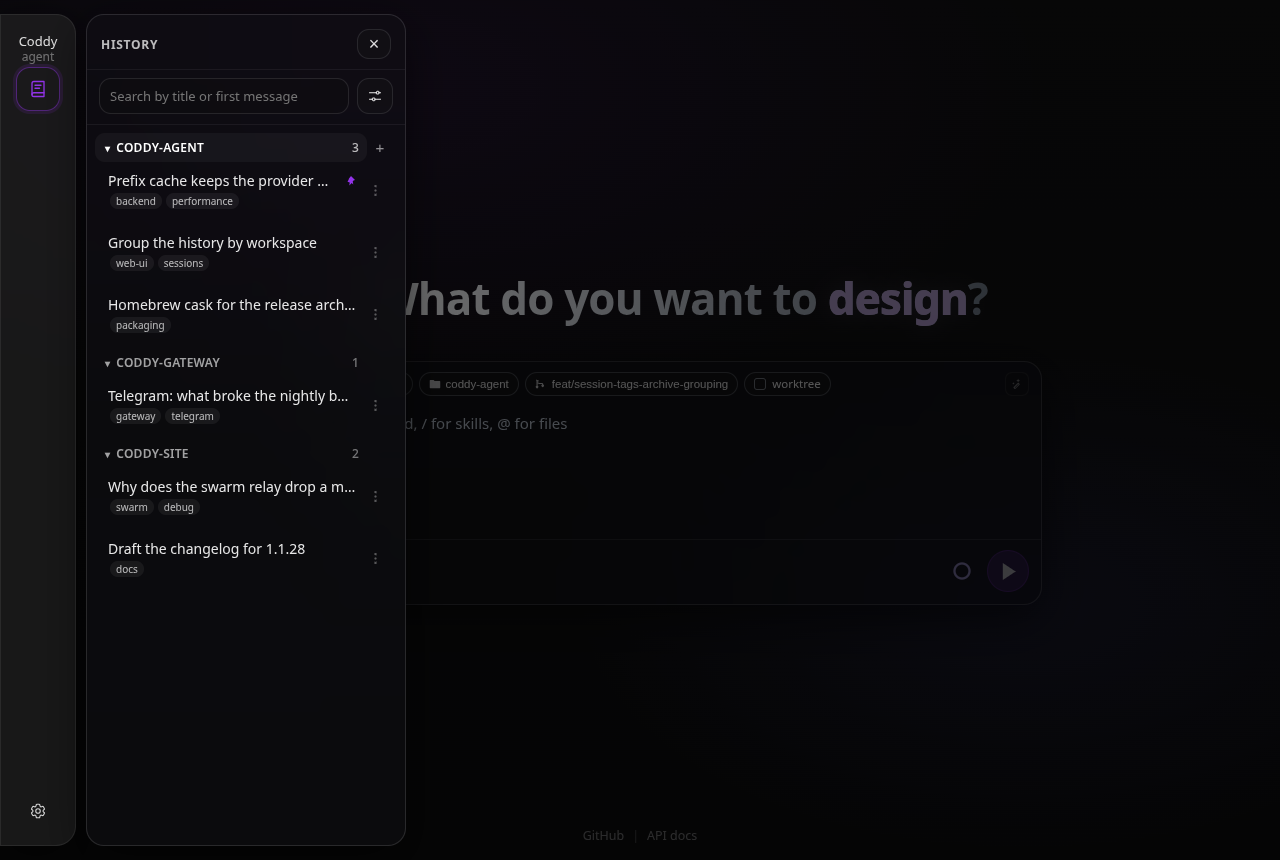
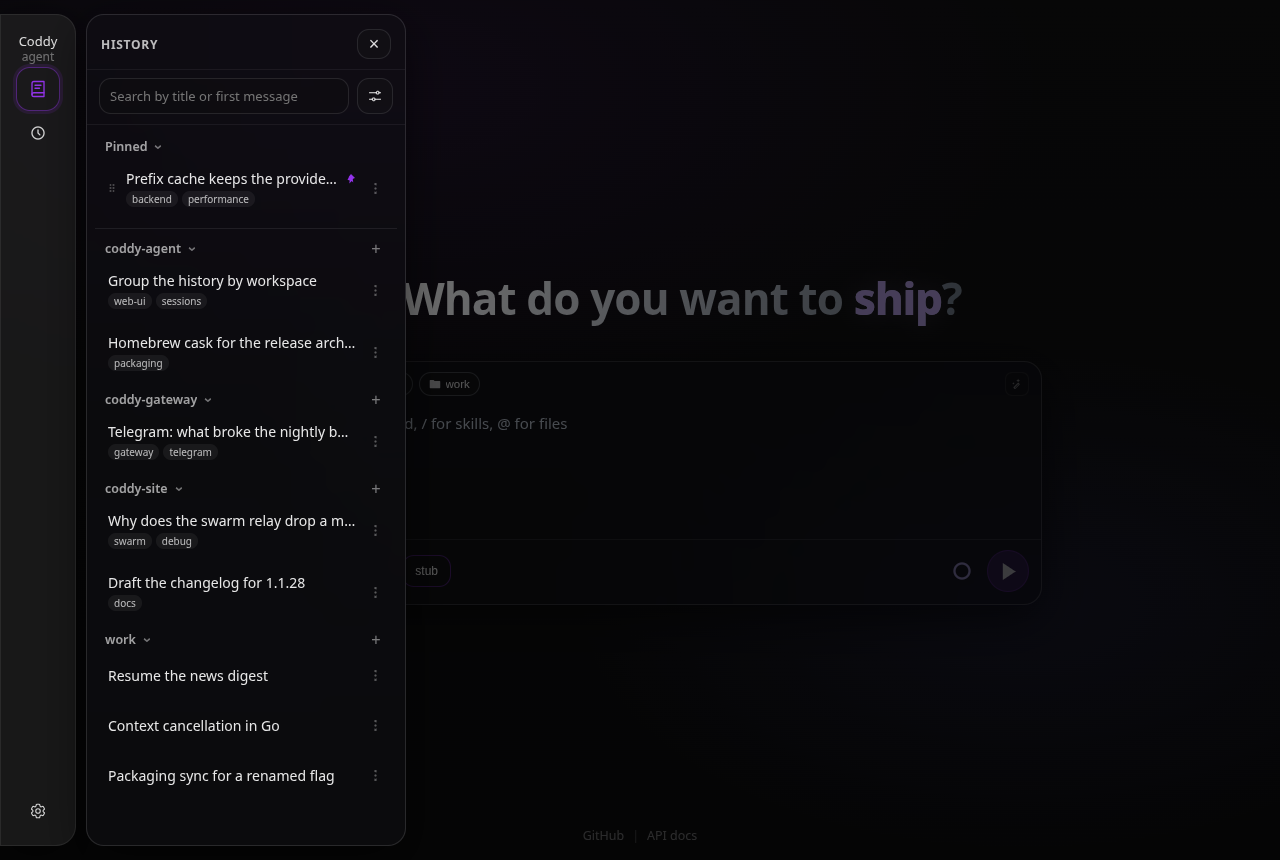
docs: screenshots of the queue, the grouped History, an opened search and the scheduler cards
The queue and the grouped History are recaptured with the frosted queue card,
the framed close control, the shared chevron and tags under the title's text.
The web search page and the web UI guide gain a screenshot of the opened
search row and of the scheduler tool cards.

diff --git a/docs/assets/INDEX.md b/docs/assets/INDEX.md
@@ -29,7 +29,7 @@ Screenshots taken as evidence for a pull request do not belong here. Attach them
 Generated by `make docs`. "Used by" lists the files that reference the asset.
 
 <!-- docsgen:assets:start -->
-108 files, 29.3 MB in total.
+110 files, 29.9 MB in total.
 
 ### docs/assets
 
@@ -59,6 +59,7 @@ Generated by `make docs`. "Used by" lists the files that reference the asset.
 | `plan-exit-preview-dark.png` | 35 KB | docs/features/modes.md |
 | `reasoning-levels-dark-1280.png` | 275 KB | docs/surfaces/web-ui.md |
 | `ref-navbar-narrow-tooltips-accent.png` | 16 KB | DESIGN.md |
+| `scheduler-tool-cards-dark-1280.png` | 279 KB | docs/surfaces/web-ui.md |
 | `screenshot-console-chat.png` | 151 KB | README.md, docs/getting-started/quickstart.md |
 | `screenshot-console-models.png` | 70 KB | docs/surfaces/console.md |
 | `screenshot-console-start.png` | 45 KB | docs/surfaces/console.md |
@@ -82,7 +83,7 @@ Generated by `make docs`. "Used by" lists the files that reference the asset.
 | `screenshot-tool-previews-overflow-dark.png` | 64 KB | docs/surfaces/web-ui.md |
 | `scroll-to-bottom-visible-dark-1280.png` | 304 KB | docs/surfaces/web-ui.md |
 | `sessions-history-filters-dark-1280.png` | 245 KB | docs/surfaces/web-ui.md |
-| `sessions-history-grouping-dark-1280.png` | 187 KB | docs/surfaces/web-ui.md |
+| `sessions-history-grouping-dark-1280.png` | 193 KB | docs/surfaces/web-ui.md |
 | `sessions-history-pinned-dark-1280.png` | 251 KB | docs/surfaces/web-ui.md |
 | `sessions-history-row-menu-dark-1280.png` | 189 KB | docs/surfaces/web-ui.md |
 | `sessions-history-tag-editor-dark-1280.png` | 191 KB | docs/surfaces/web-ui.md |
@@ -132,7 +133,7 @@ Generated by `make docs`. "Used by" lists the files that reference the asset.
 |------|------|---------|
 | `message-queue-console-dark.png` | 244 KB | docs/features/message-queue.md |
 | `message-queue-draft-armed-dark-1280.png` | 245 KB | docs/features/message-queue.md |
-| `message-queue-two-waiting-dark-1280.png` | 255 KB | docs/features/message-queue.md |
+| `message-queue-two-waiting-dark-1280.png` | 248 KB | docs/features/message-queue.md |
 | `stop-queue-cancel-failed-dark-1280.png` | 264 KB | docs/surfaces/web-ui.md |
 | `stop-queue-remote-tui-dark-1280.png` | 61 KB | docs/surfaces/console.md |
 
@@ -198,4 +199,10 @@ Generated by `make docs`. "Used by" lists the files that reference the asset.
 | `vscode-acp.mp4` | 1.7 MB | README.md, docs/surfaces/editors.md |
 | `web-ui.mp4` | 1.5 MB | README.md, docs/surfaces/web-ui.md |
 | `zed-acp.mp4` | 2.8 MB | README.md, docs/surfaces/editors.md |
+
+### docs/assets/web-search
+
+| File | Size | Used by |
+|------|------|---------|
+| `web-search-row-open-dark-1280.png` | 335 KB | docs/features/web-search.md |
 <!-- docsgen:assets:end -->

diff --git a/docs/surfaces/web-ui.md b/docs/surfaces/web-ui.md
@@ -595,6 +595,10 @@ For the whole of a running turn, streaming text included, the typing dots carry 
 
 The scheduler tools (`coddy_scheduler_*`) have a card of their own instead of their JSON: the bar names the job and what happened to it (*resumed*, *run started*, *was not running*, *created*, *updated*, *deleted*), a job read or created is shown as its fields - description, schedule with its human reading, state, next run, mode, model, folder - with the instruction rendered as Markdown, the job list as one row per job and the runs of a job as one row per run with its status and duration.
 
+![Scheduler calls in the transcript: a job read as its fields, a resume and a run as their outcome](../assets/scheduler-tool-cards-dark-1280.png)
+
+*Scheduler calls in the transcript: a job read as its fields, a resume and a run as their outcome*
+
 `spawn_agent` has a dedicated argument card: agent icon and name, optional description, a labelled timeout badge, and an inset panel for the full multiline prompt. The timeout is the supplied execution limit in seconds, separate from the elapsed duration beside the tool title. The layout wraps on narrow screens and follows the active light/dark theme. Calls with truncated history arguments load the full arguments once per incomplete preview, including running calls; malformed arguments or failed fetches retain the plain argument preview. Result output and More / Less behave as for other tools, with the result attached below the agent card. Card labels follow the active English/Russian UI locale.
 
 The happy path is in `features/spawn_agent_card.feature`, run by the `http,ui` godog harness through the React DOM test in `SpawnAgentCard.test.tsx`. Edge cases cover invalid arguments, absent/invalid timeouts, escaped prompt text, and history fetch failure.

diff --git a/docs/features/web-search.md b/docs/features/web-search.md
@@ -41,6 +41,10 @@ When **every** engine is blocked the call fails rather than returning an empty l
 
 A search row in the transcript reads as what it found, not as the JSON above. Its header names the query and every parameter the search ran with - the page, the number of rows asked for (15 when the call named none) and the site when there was one - and the first line under it says how each engine answered: a count for an engine that answered, the outcome and its reason for one that did not. The hits follow as links, each snippet on its own line. Opening the row loads the whole answer at once: the row only holds the first lines of the output, which the engine report fills, so there is no **More** control to press for the results.
 
+![An opened search row: the query and its parameters in the header, the engine report, every hit as a link](../assets/web-search/web-search-row-open-dark-1280.png)
+
+*An opened search row: the query and its parameters in the header, how each engine answered, every hit as a link*
+
 ## Engines
 
 | Engine | Key needed | Notes |
